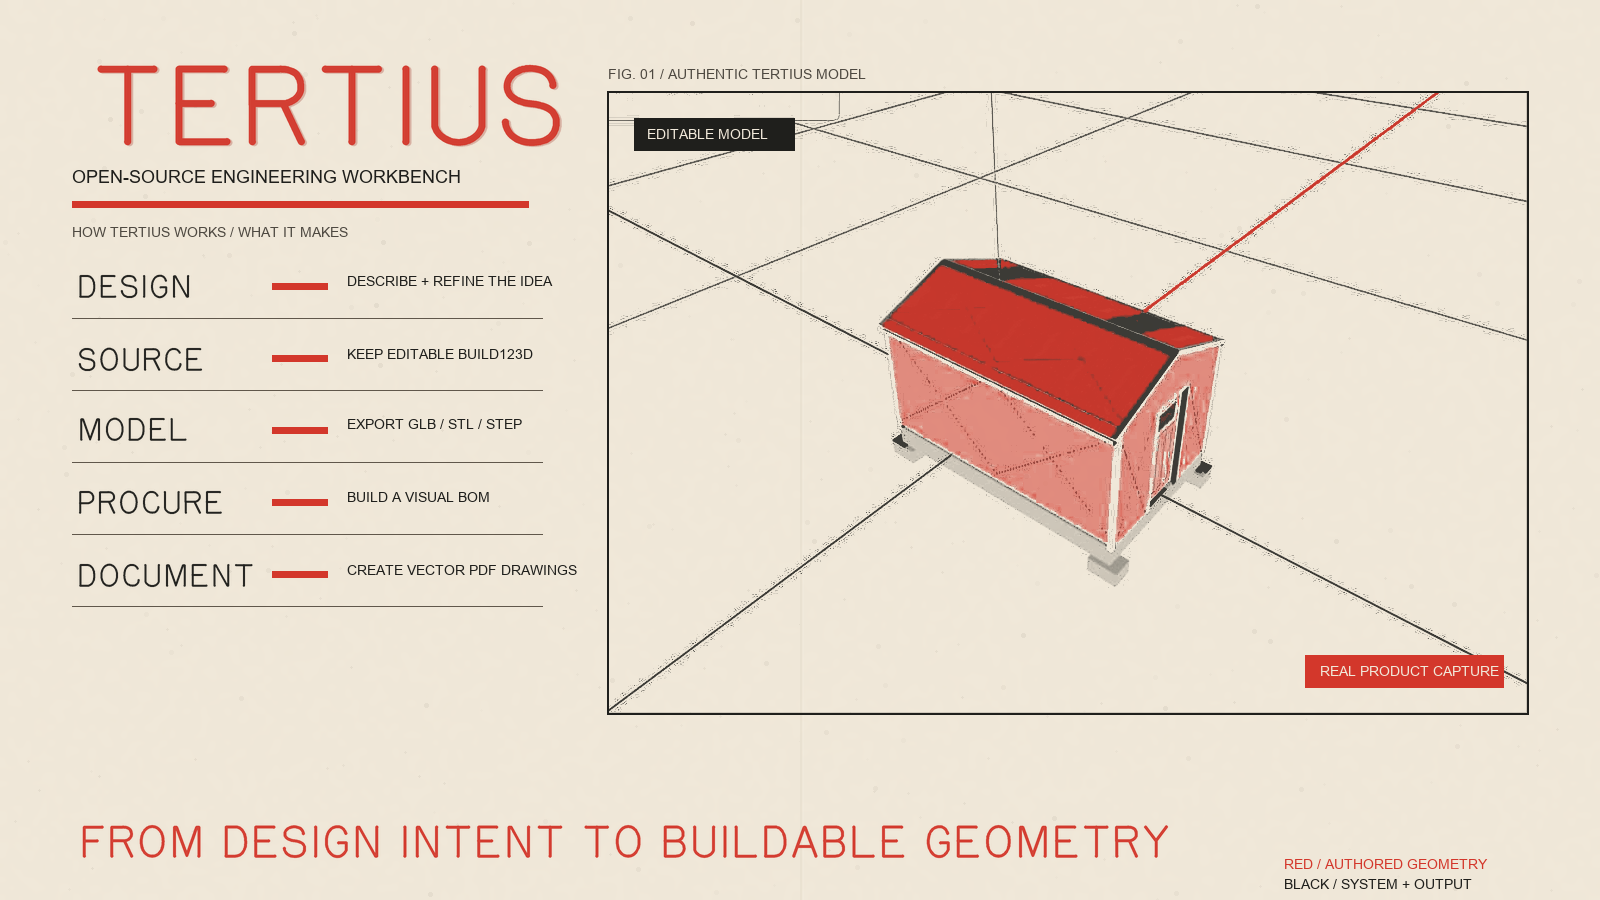
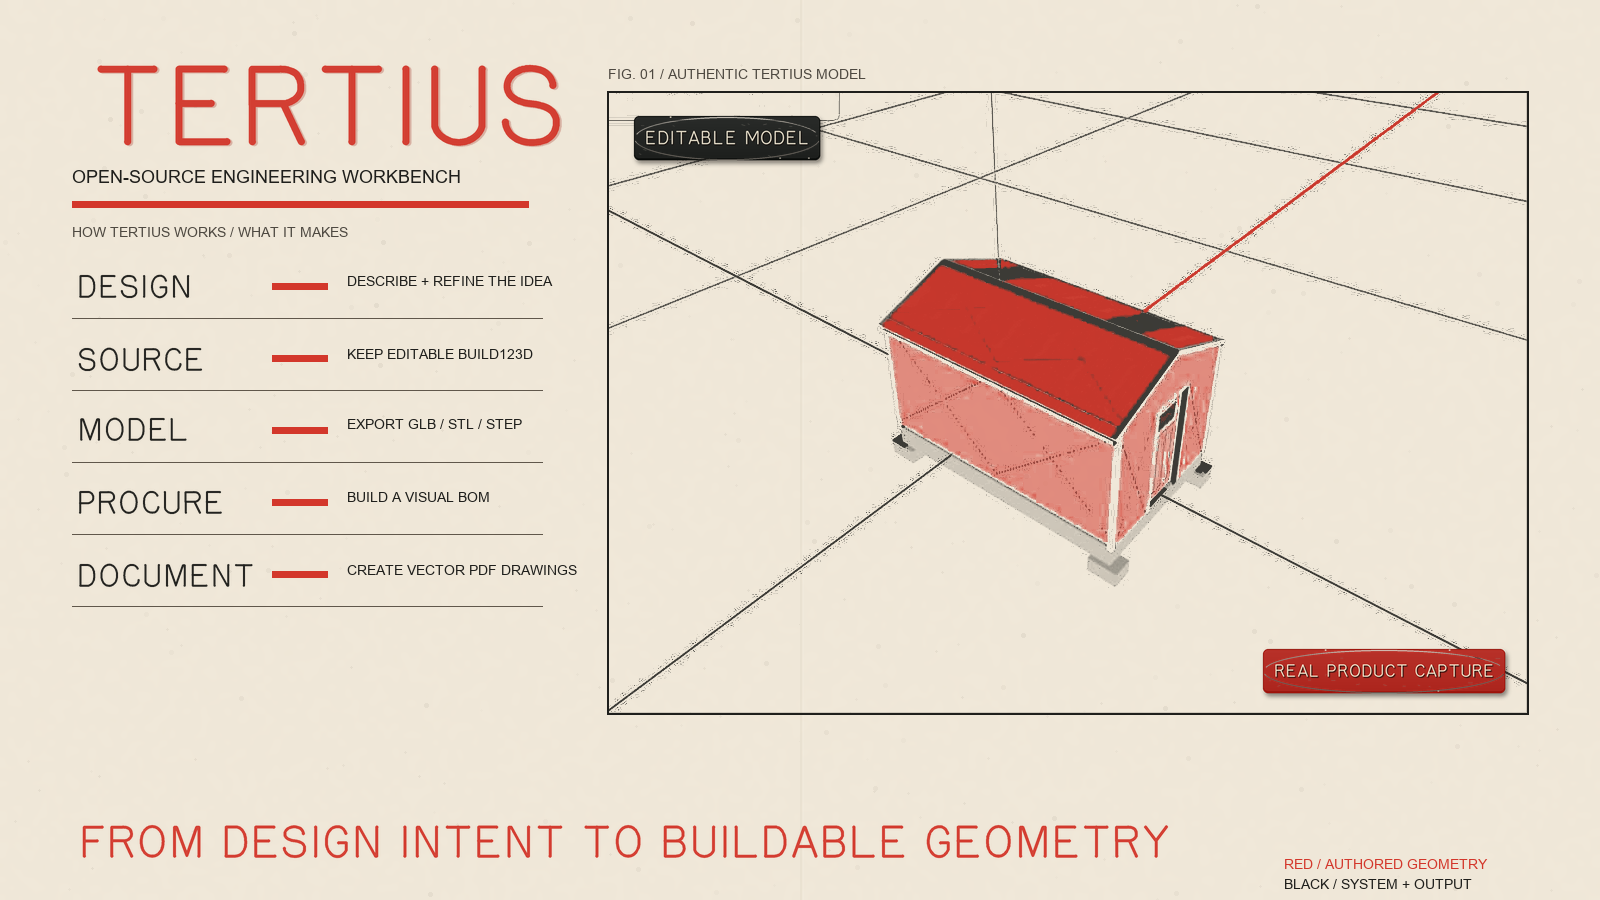
Give the README hero engraved nameplates

Changed region(s): [[0.7812, 0.7156, 0.9688, 0.7778], [0.375, 0.1244, 0.5312, 0.1867]]

diff --git a/assets/readme/compose-hero.py b/assets/readme/compose-hero.py
@@ -196,6 +196,119 @@ def duotone_product_plate(source: Image.Image, size: tuple[int, int]) -> Image.I
     return Image.alpha_composite(plate, red_ink)
 
 
+def engraved_plastic_plate(
+    font_path: Path,
+    text: str,
+    size: tuple[int, int],
+    face_colour: tuple[int, int, int],
+    core_colour: tuple[int, int, int],
+    seed: int,
+) -> Image.Image:
+    """Render a small, two-colour engraved laminate equipment nameplate."""
+    scale = 4
+    padding = 10
+    plate_width, plate_height = size
+    full_size = ((plate_width + padding * 2) * scale, (plate_height + padding * 2) * scale)
+    plate_box = (
+        padding * scale,
+        padding * scale,
+        (padding + plate_width) * scale,
+        (padding + plate_height) * scale,
+    )
+    radius = 5 * scale
+    rng = random.Random(seed)
+    canvas = Image.new("RGBA", full_size, (0, 0, 0, 0))
+
+    # A soft, slightly uneven adhesive shadow keeps the plate attached to the
+    # printed product image rather than reading as a flat graphic overlay.
+    shadow = Image.new("RGBA", full_size, (0, 0, 0, 0))
+    shadow_draw = ImageDraw.Draw(shadow)
+    shadow_draw.rounded_rectangle(
+        tuple(value + offset for value, offset in zip(plate_box, (2 * scale, 3 * scale, 2 * scale, 3 * scale))),
+        radius=radius,
+        fill=(20, 16, 12, 125),
+    )
+    shadow = shadow.filter(ImageFilter.GaussianBlur(2.2 * scale))
+    canvas = Image.alpha_composite(canvas, shadow)
+
+    # Build the exposed dark edge and the very shallow bevel of laminated
+    # engraving stock. The face has a minute vertical colour shift, like aged
+    # phenolic/Traffolyte rather than a digitally perfect solid fill.
+    edge_colour = tuple(max(0, channel - 24) for channel in face_colour)
+    face = Image.new("RGBA", full_size, (0, 0, 0, 0))
+    face_draw = ImageDraw.Draw(face)
+    face_draw.rounded_rectangle(plate_box, radius=radius, fill=(*edge_colour, 255))
+    inner_box = (
+        plate_box[0] + scale,
+        plate_box[1] + scale,
+        plate_box[2] - scale,
+        plate_box[3] - 2 * scale,
+    )
+    inner_mask = Image.new("L", full_size, 0)
+    ImageDraw.Draw(inner_mask).rounded_rectangle(inner_box, radius=radius - scale, fill=255)
+    colour_field = Image.new("RGBA", full_size, (0, 0, 0, 0))
+    colour_draw = ImageDraw.Draw(colour_field)
+    for y in range(inner_box[1], inner_box[3] + 1):
+        progress = (y - inner_box[1]) / max(1, inner_box[3] - inner_box[1])
+        adjustment = int(7 - progress * 13)
+        row_colour = tuple(max(0, min(255, channel + adjustment)) for channel in face_colour)
+        colour_draw.line((inner_box[0], y, inner_box[2], y), fill=(*row_colour, 255), width=1)
+    colour_field.putalpha(inner_mask)
+    face = Image.alpha_composite(face, colour_field)
+    face_draw = ImageDraw.Draw(face)
+    face_draw.arc(inner_box, 190, 345, fill=(255, 255, 255, 42), width=scale)
+    face_draw.arc(plate_box, 8, 172, fill=(0, 0, 0, 54), width=scale)
+
+    # Sparse scuffs, pinholes, and tiny edge chips are deterministic. They are
+    # physical cues, not a blanket "vintage" noise filter.
+    for _ in range(max(8, plate_width // 12)):
+        x = rng.randrange(inner_box[0] + 2 * scale, inner_box[2] - 2 * scale)
+        y = rng.randrange(inner_box[1] + 2 * scale, inner_box[3] - 2 * scale)
+        length = rng.randrange(scale, 5 * scale)
+        opacity = rng.randrange(10, 34)
+        face_draw.line((x, y, min(inner_box[2], x + length), y + rng.choice((-1, 0, 1)) * scale), fill=(245, 239, 221, opacity), width=1)
+    for _ in range(3):
+        x = rng.randrange(plate_box[0] + 4 * scale, plate_box[2] - 4 * scale)
+        y = rng.choice((plate_box[1] + scale, plate_box[3] - 2 * scale))
+        face_draw.ellipse((x - scale, y - scale // 2, x + scale, y + scale // 2), fill=(*core_colour, 105))
+    canvas = Image.alpha_composite(canvas, face)
+
+    # Taylor-Hobson/Gorton open paths behave like letters cut with a single-line
+    # pantograph engraver. A dark lower edge plus a pale exposed core gives each
+    # stroke the shallow depth of an actual routed groove.
+    lettering = gorton_wordmark(
+        font_path,
+        text,
+        height=19 * scale,
+        stroke_width=2 * scale,
+        colour=(*core_colour, 255),
+    )
+    content_box = lettering.getbbox()
+    if content_box:
+        lettering = lettering.crop(content_box)
+    max_width = (plate_width - 24) * scale
+    max_height = (plate_height - 13) * scale
+    ratio = min(1.0, max_width / lettering.width, max_height / lettering.height)
+    if ratio < 1.0:
+        lettering = lettering.resize(
+            (max(1, int(lettering.width * ratio)), max(1, int(lettering.height * ratio))),
+            Image.Resampling.LANCZOS,
+        )
+    letter_x = (full_size[0] - lettering.width) // 2
+    letter_y = plate_box[1] + (plate_height * scale - lettering.height) // 2 - scale // 2
+    groove = Image.new("RGBA", full_size, (0, 0, 0, 0))
+    dark_lettering = Image.new("RGBA", lettering.size, (28, 22, 18, 0))
+    dark_lettering.putalpha(lettering.getchannel("A").filter(ImageFilter.GaussianBlur(0.45 * scale)))
+    groove.alpha_composite(dark_lettering, (letter_x + scale, letter_y + scale))
+    groove.alpha_composite(lettering, (letter_x, letter_y))
+    canvas = Image.alpha_composite(canvas, groove)
+
+    return canvas.resize(
+        (plate_width + padding * 2, plate_height + padding * 2),
+        Image.Resampling.LANCZOS,
+    )
+
+
 def compose(source: Path, destination: Path, brand_font: Path | None) -> None:
     source_image = Image.open(source).convert("RGBA")
     width, height = source_image.size
@@ -253,18 +366,47 @@ def compose(source: Path, destination: Path, brand_font: Path | None) -> None:
         outline=ink,
         width=2,
     )
-    draw.rectangle((plate_x + 26, plate_y + 26, plate_x + 186, plate_y + 58), fill=ink)
-    draw.text((plate_x + 39, plate_y + 34), "EDITABLE MODEL", font=small, fill=paper)
-    draw.rectangle(
-        (plate_x + plate_size[0] - 222, plate_y + plate_size[1] - 58, plate_x + plate_size[0] - 24, plate_y + plate_size[1] - 26),
-        fill=signal_red,
-    )
-    draw.text(
-        (plate_x + plate_size[0] - 207, plate_y + plate_size[1] - 50),
-        "REAL PRODUCT CAPTURE",
-        font=small,
-        fill=paper,
-    )
+    if brand_font and brand_font.exists():
+        plate_font = brand_font.with_name("GortonClassicTaylorHobson.otf")
+        if not plate_font.exists():
+            plate_font = brand_font
+        editable_plate = engraved_plastic_plate(
+            plate_font,
+            "EDITABLE MODEL",
+            (186, 44),
+            (34, 36, 34),
+            (226, 218, 198),
+            seed=33558,
+        )
+        image.alpha_composite(editable_plate, (plate_x + 16, plate_y + 14))
+        capture_plate = engraved_plastic_plate(
+            plate_font,
+            "REAL PRODUCT CAPTURE",
+            (242, 44),
+            (177, 42, 34),
+            (238, 224, 199),
+            seed=1958,
+        )
+        image.alpha_composite(
+            capture_plate,
+            (
+                plate_x + plate_size[0] - capture_plate.width - 12,
+                plate_y + plate_size[1] - capture_plate.height - 10,
+            ),
+        )
+    else:
+        draw.rectangle((plate_x + 26, plate_y + 26, plate_x + 186, plate_y + 58), fill=ink)
+        draw.text((plate_x + 39, plate_y + 34), "EDITABLE MODEL", font=small, fill=paper)
+        draw.rectangle(
+            (plate_x + plate_size[0] - 222, plate_y + plate_size[1] - 58, plate_x + plate_size[0] - 24, plate_y + plate_size[1] - 26),
+            fill=signal_red,
+        )
+        draw.text(
+            (plate_x + plate_size[0] - 207, plate_y + plate_size[1] - 50),
+            "REAL PRODUCT CAPTURE",
+            font=small,
+            fill=paper,
+        )
 
     if brand_font and brand_font.exists():
         footer = gorton_wordmark(

diff --git a/assets/readme/README.md b/assets/readme/README.md
@@ -6,6 +6,7 @@ This folder contains the deterministic compositor used to build `assets/hero-pro
 
 - `assets/extus-viewer.png`: clean 1600 × 900 product capture.
 - `GortonClassicRegular.otf`: supplied locally when regenerating; the licensed font is not stored in this repository.
+- `GortonClassicTaylorHobson.otf`: when present beside the regular font, the compositor uses its open paths for the engraved equipment labels. It falls back to the regular cut when absent.
 - Python packages: `Pillow` and `fontTools`.
 
 ## Regenerate the hero
@@ -19,7 +20,7 @@ python assets/readme/compose-hero.py `
   --font "W:\ben\ContextUI\default\workflows\gainengineering\GainEngineeringWebsite\fonts\GortonClassicRegular.otf"
 ```
 
-The script reads the Gorton font's open glyph geometry with `fontTools` and strokes it directly. Do not render the wordmark as ordinary filled font text and do not trace a rasterised logo; both lose the single-stroke engraving construction.
+The script reads the Gorton fonts' open glyph geometry with `fontTools` and strokes it directly. Do not render the wordmark as ordinary filled font text and do not trace a rasterised logo; both lose the single-stroke engraving construction. The two product-image captions are rendered as bevelled, two-colour engraved laminate plates with pale core material exposed by the Taylor–Hobson letter strokes.
 
 The paper grain, fold, ink registration, duotone conversion, typography, labels, and layout are deterministic. Re-running the same command with the same inputs produces the same hero.
 
